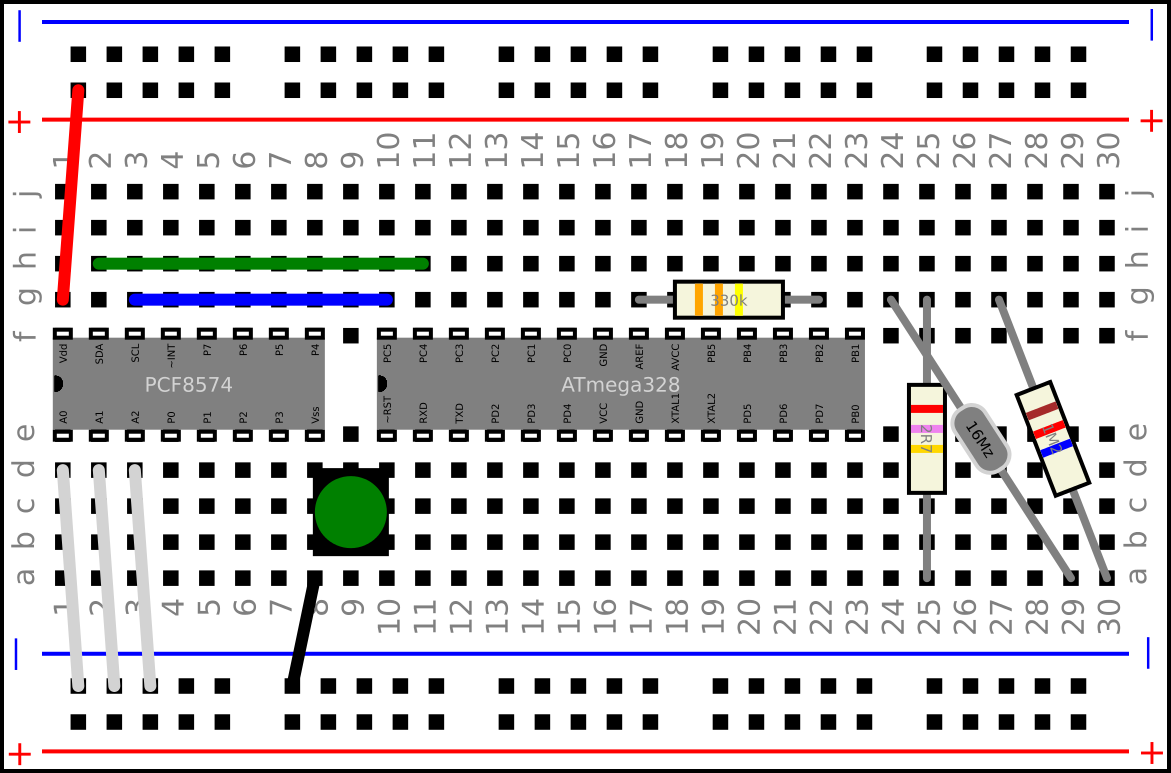
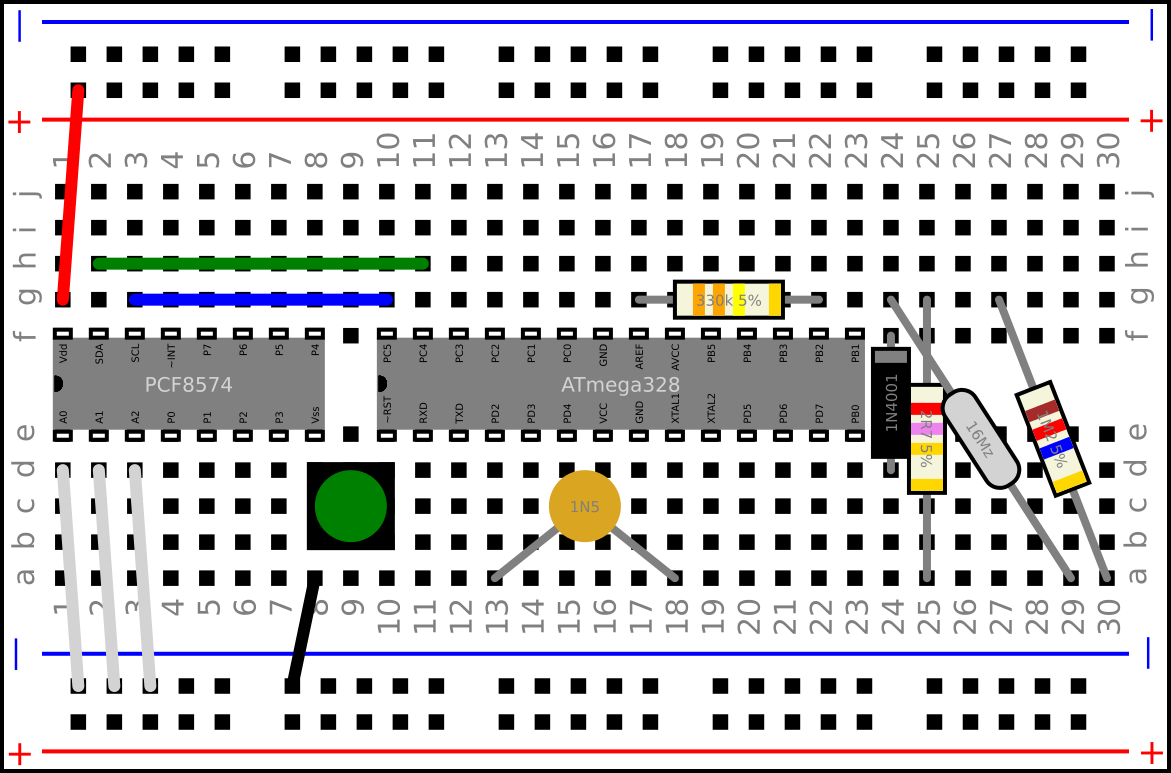
Updated script in README and associated diagram.

diff --git a/plan/Boarder-plan.mm b/plan/Boarder-plan.mm
@@ -123,7 +123,9 @@
 <node TEXT="resistor" ID="ID_1269198528" CREATED="1503322558148" MODIFIED="1504605099003">
 <icon BUILTIN="button_ok"/>
 </node>
-<node TEXT="capacitor" ID="ID_328735972" CREATED="1503322562524" MODIFIED="1503322609932"/>
+<node TEXT="capacitor" ID="ID_328735972" CREATED="1503322562524" MODIFIED="1505494254635">
+<icon BUILTIN="button_ok"/>
+</node>
 <node TEXT="xtal" ID="ID_982504514" CREATED="1503322566892" MODIFIED="1504605102930">
 <icon BUILTIN="button_ok"/>
 </node>

diff --git a/README.md b/README.md
@@ -22,27 +22,29 @@ components like capacitors, diodes and transistors.
 I have not started on the text/markdown generator yet  but I do not anticipate any major
 difficulties.
 
-## Sample script and its output
-
-    
+## Sample script and its output 
+   
     def test_dil():
-        drawing = Drawing()
+        project = Project()
         breadboard = Breadboard()
-        drawing.add(breadboard)
-        breadboard.connect(atMega328(), 'f10')
-        breadboard.connect(pcf8574(), 'f1')
-        breadboard.connect(Wire('red'),'g1','TP1')
-        breadboard.connect(Wire('black'),'a8','BM6')
-        breadboard.connect(Wire('blue'),'g3','g10')
-        breadboard.connect(Wire('green'),'h2','h11')
-        breadboard.connect(Wire('lightgrey'),'d1','BM1')
-        breadboard.connect(Wire('lightgrey'),'d2','BM2')
-        breadboard.connect(Wire('lightgrey'),'d3','BM3')
-        breadboard.connect(Button(), 'd8')
-        breadboard.connect(Resistor('330k'), 'g17','g22')
-        breadboard.connect(Resistor('2R7'), 'g25','a25')
-        breadboard.connect(Resistor('1M2'), 'g27','a30')
-        svg = drawing.svg()
+        project.add(breadboard)
+        project.add(atMega328(breadboard['f10']))
+        project.add(pcf8574(breadboard['f1']))
+        project.add(Wire('red',breadboard['g1'],breadboard['TP1']))
+        project.add(Wire('black',breadboard['a8'],breadboard['BM6']))
+        project.add(Wire('blue',breadboard['g3'],breadboard['g10']))
+        project.add(Wire('green',breadboard['h2'],breadboard['h11']))
+        project.add(Wire('lightgrey',breadboard['d1'],breadboard['BM1']))
+        project.add(Wire('lightgrey',breadboard['d2'],breadboard['BM2']))
+        project.add(Wire('lightgrey',breadboard['d3'],breadboard['BM3']))
+        project.add(Button(breadboard['d8']))
+        project.add(Resistor('330k', '5%', breadboard['g17'],breadboard['g22']))
+        project.add(Resistor('2R7', '5%', breadboard['g25'],breadboard['a25']))
+        project.add(Resistor('1M2', '5%', breadboard['g27'],breadboard['a30']))
+        project.add(Crystal('16Mz', breadboard['g24'],breadboard['a29']))
+        project.add(Diode('1N4001', breadboard['d24'],breadboard['f24']))
+        project.add(DiskCapacitor('1N5', breadboard['a13'],breadboard['a18']))
+        svg = project.svg()
         write(svg, 'svg/dil.svg')
         
        
